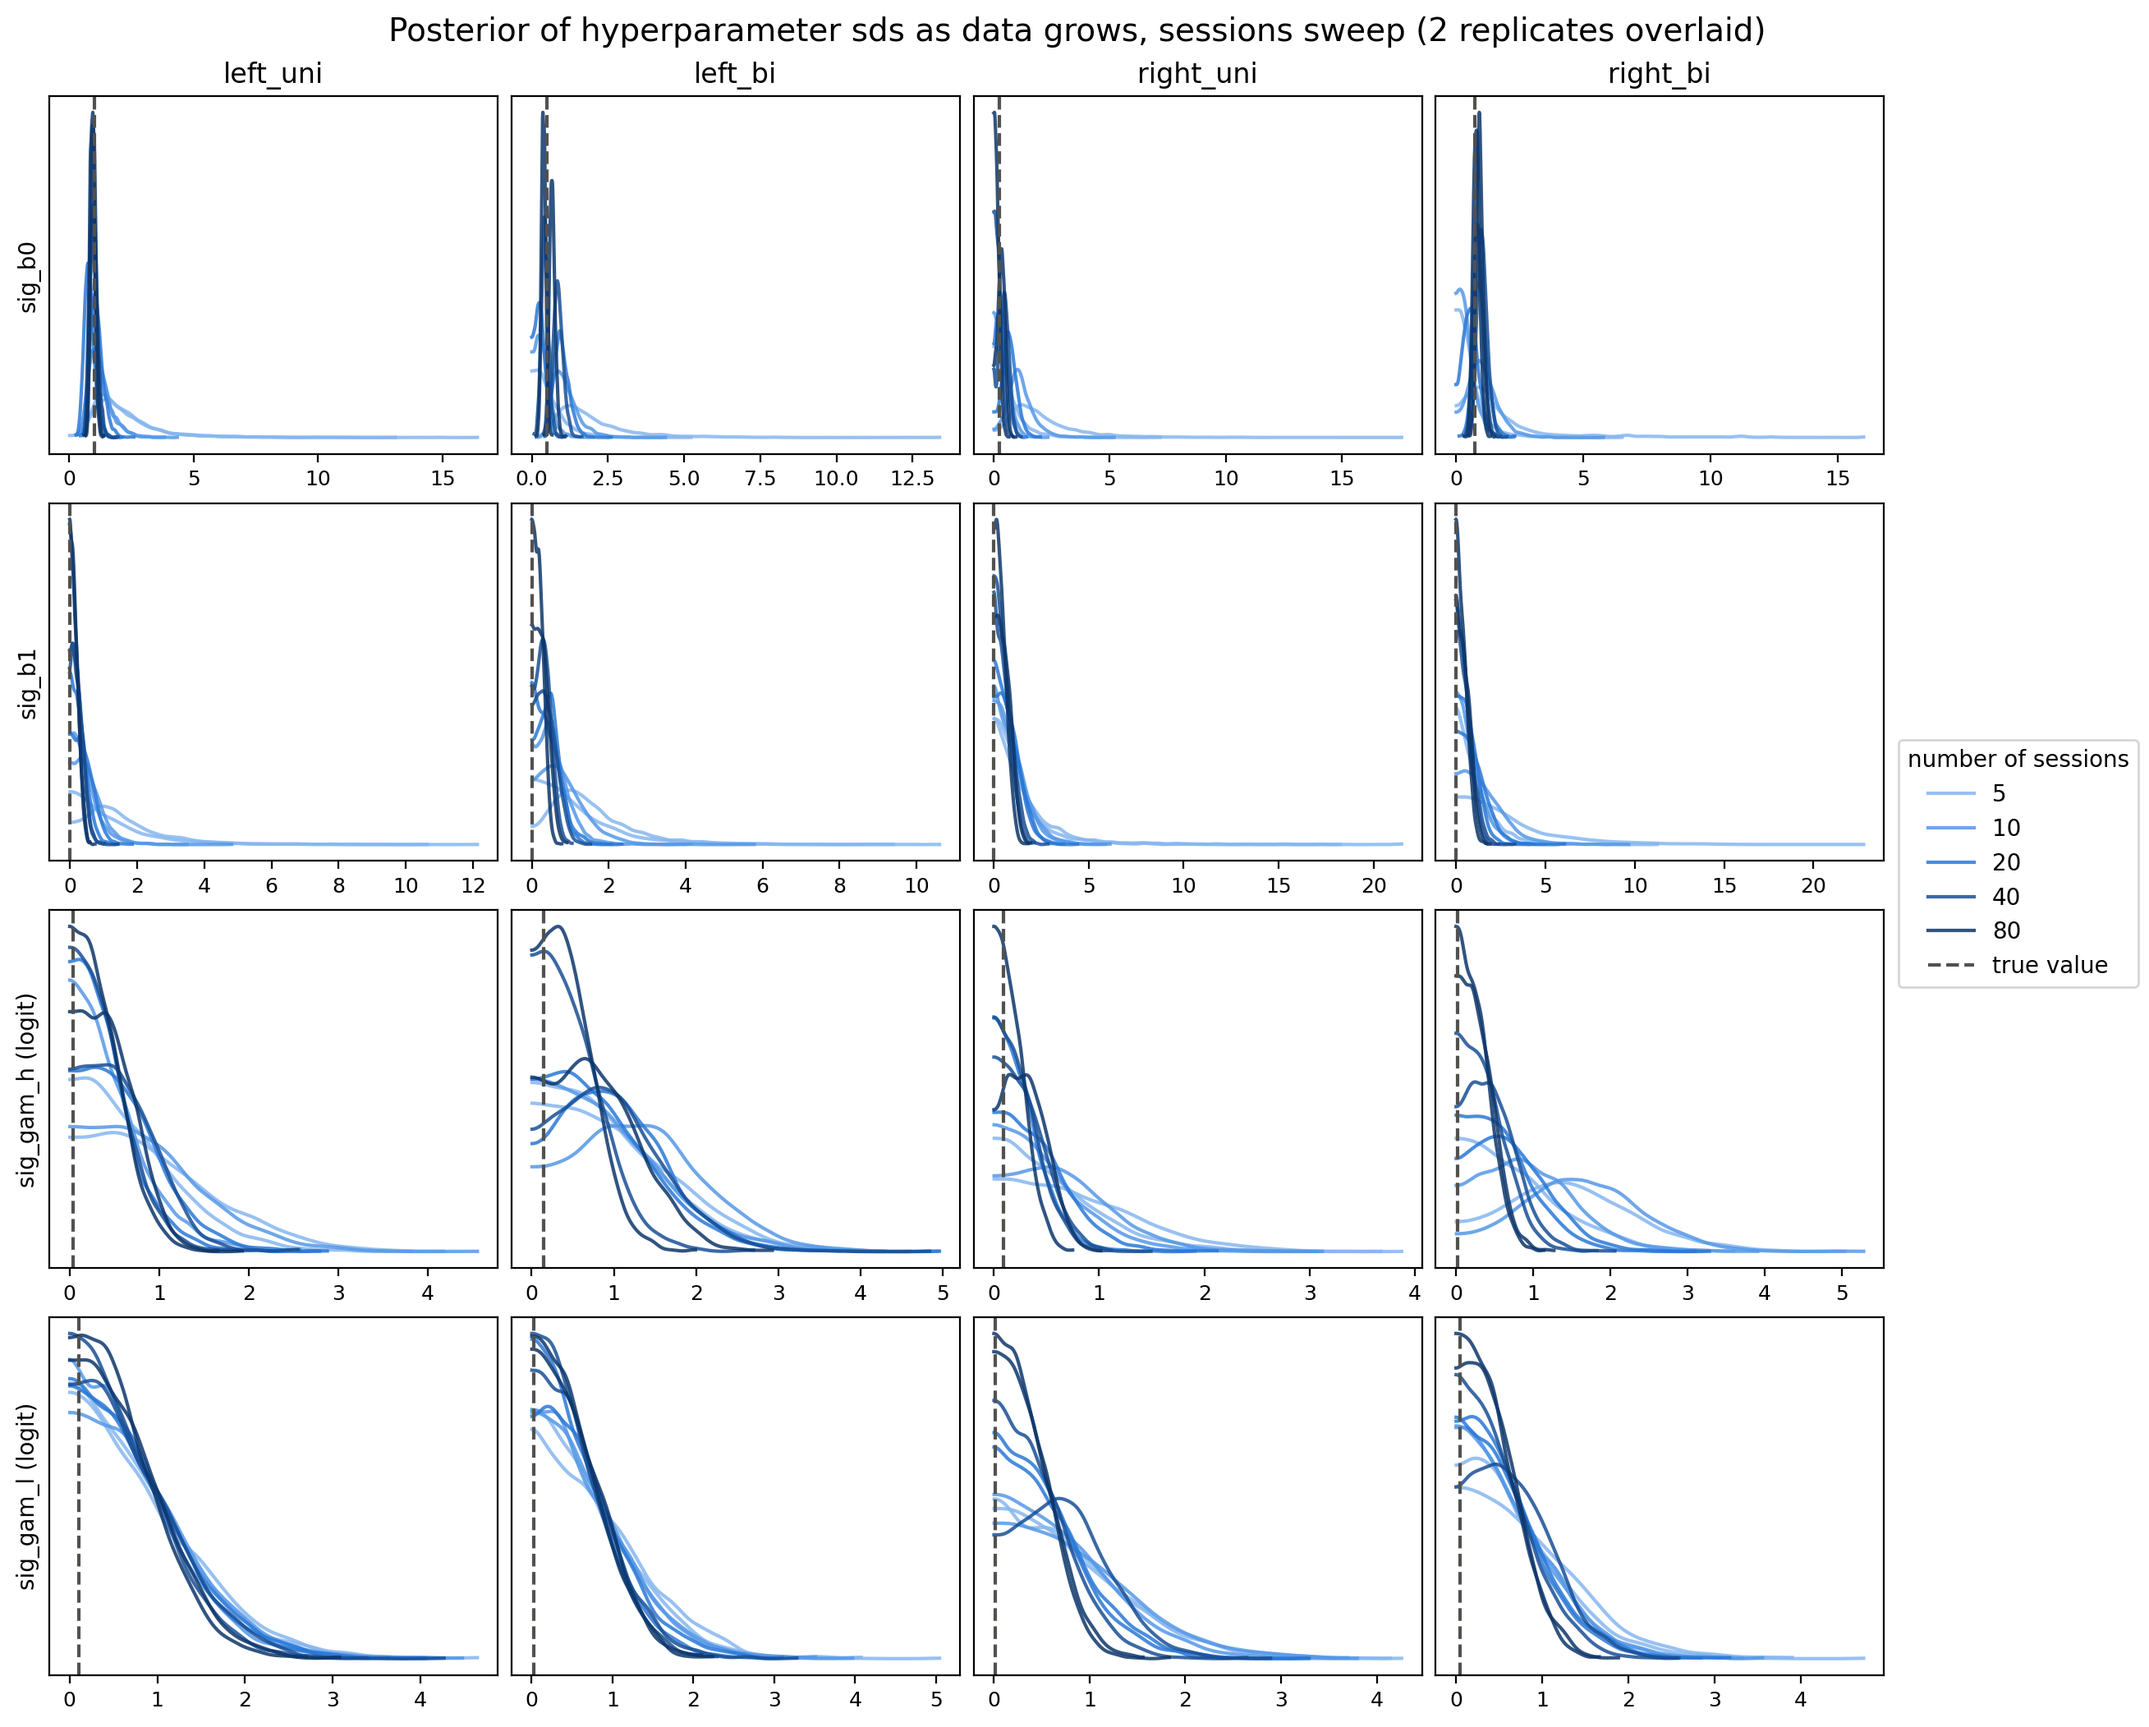
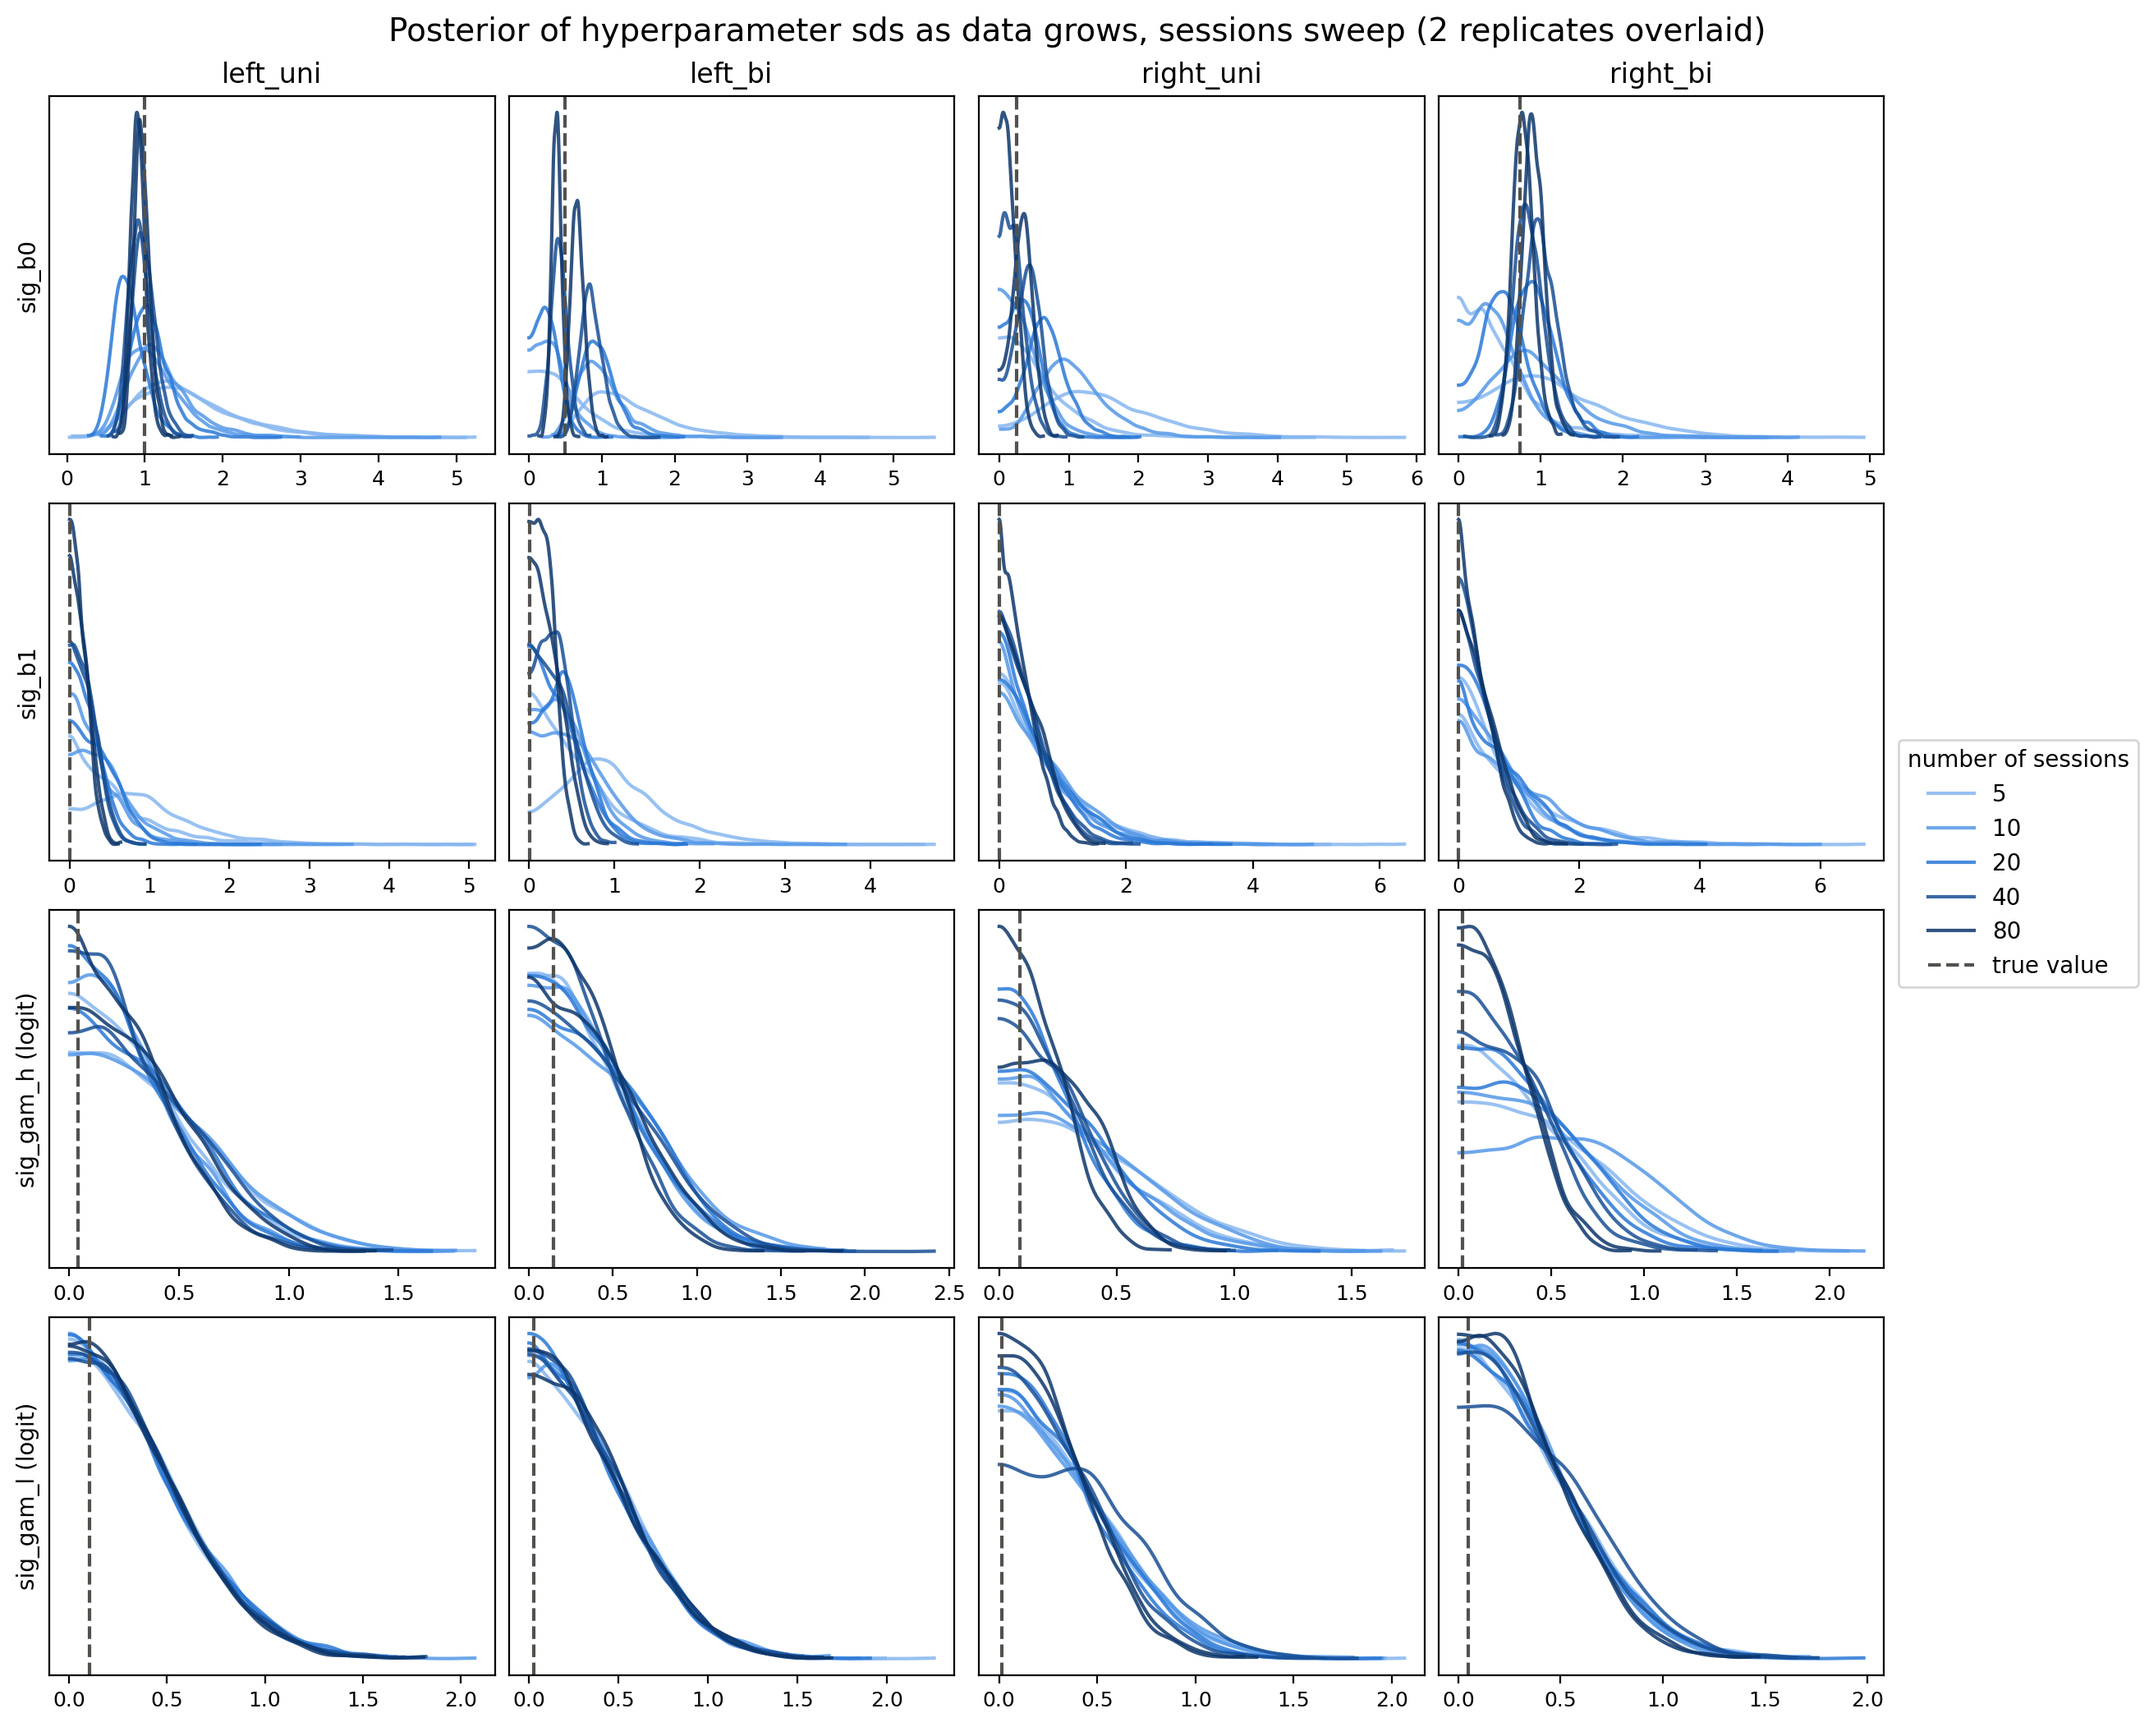
Claude: Rerun the Model B convergence study with the new priors
Model_B/Convergence_B.py was rerun (2.2 h, same settings and seed) after
the prior changes in b2ff8fd, 517b6d9, 26386fe and dbd362d. The seed
gives exactly the same synthetic datasets as the previous run, so the
differences come from the priors alone. The 10 convergence plots are
regenerated; the previous results are kept locally (ignored) as
Results_Convergence_B_oldpriors.pkl.

Findings:
- All 20 fits sampled cleanly: no divergences, max r_hat <= 1.010, min
  hyperparameter ESS 579. The 5-session fits, which had 93 divergences
  before, no longer need to be excluded.
- The right-hand slopes are no longer truncated at 8; their HDIs are
  wide (1.8-2.6 units at 40 sessions) because of the stimulus spacing.
- The upward bias of mu_gam_l for the left-hand groups is gone in the
  sessions sweep (-3.86 vs true -3.8/-3.9 at 40 sessions, was -3.30/
  -3.57) but remains for left_uni in the trials sweep, where the curve
  does not reach its ceiling. left_bi gam_h is low in the trials sweep
  for the same reason at the floor.
- sig_gam_l's posterior is essentially its prior at every size;
  sig_b1 and sig_gam_h are also not identified.
- Session lapse-rate HDIs are narrower; coverage is mostly 1.0, but a
  group-level miss now shows up in every session of the group.
- right_uni mu_gam_l is overestimated at 80 sessions in both replicates
  under both sets of priors; cause not identified.

Convergence_B_Report.txt now presents the current priors as the model,
[…]

diff --git a/Model_B/Convergence_B.py b/Model_B/Convergence_B.py
@@ -40,7 +40,7 @@ Notes on reading the results:
       converge to the mean/sd of the 42 sessions actually drawn, not to
       the population values.
     - The true sig_b1 values are tiny (0.002-0.008) next to the prior on
-      sig_b1 (Exponential with mean 4), so they may not be recoverable at
+      sig_b1 (Exponential with mean 1), so they may not be recoverable at
       these session counts.
 
 Runtime: very roughly 1.5 min per 1000 trials per fit with the default
